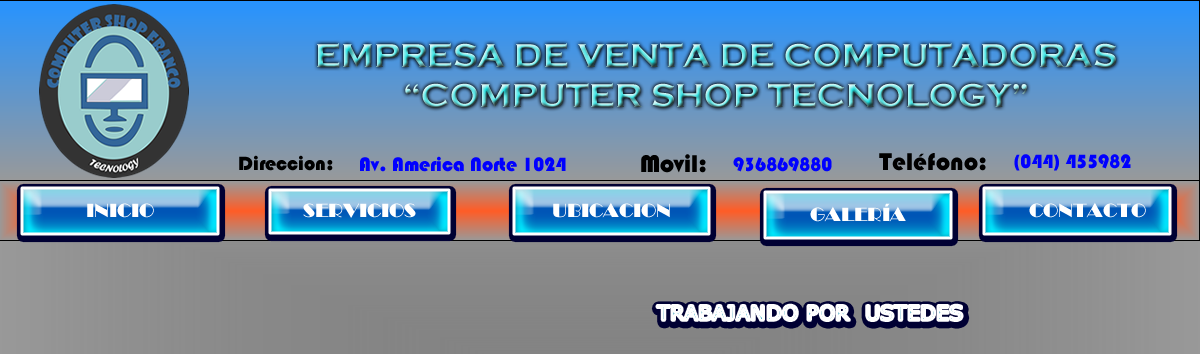
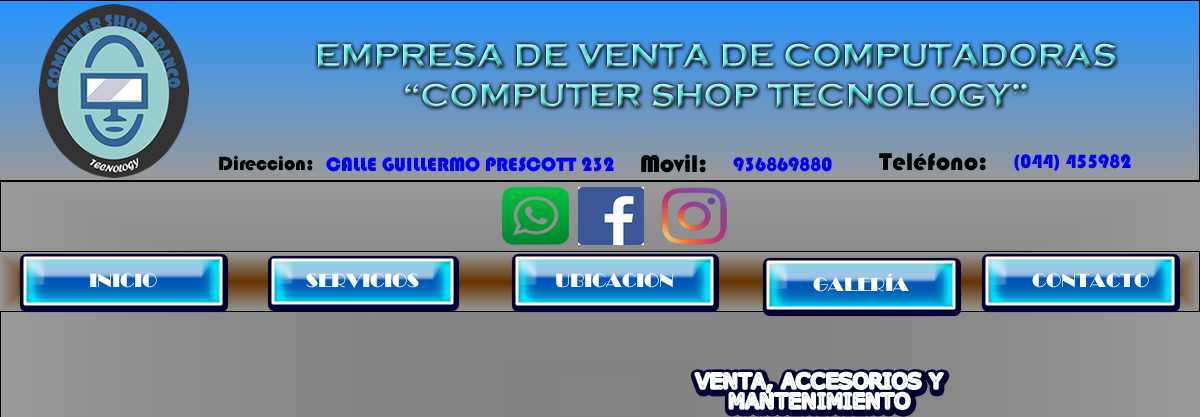
Add files via upload

diff --git a/index.html b/index.html
@@ -6,7 +6,7 @@
 <title>index.png</title>
 <meta http-equiv="Content-Type" content="text/html; charset=utf-8" />
 <style type="text/css">td img {display: block;}</style>
-<!--Fireworks CS6 Dreamweaver CS6 target.  Created Tue Sep 09 08:20:52 GMT-0500 2025-->
+<!--Fireworks CS6 Dreamweaver CS6 target.  Created Tue Sep 09 08:52:23 GMT-0500 2025-->
 <script language="JavaScript1.2" type="text/javascript">
 <!--
 function MM_findObj(n, d) { //v4.01
@@ -41,33 +41,33 @@ function MM_preloadImages() { //v3.0
    <td><img src="spacer.gif" width="192" height="1" alt="" /></td>
    <td><img src="spacer.gif" width="8" height="1" alt="" /></td>
    <td><img src="spacer.gif" width="348" height="1" alt="" /></td>
-   <td><img src="spacer.gif" width="477" height="1" alt="" /></td>
-   <td><img src="spacer.gif" width="123" height="1" alt="" /></td>
+   <td><img src="spacer.gif" width="445" height="1" alt="" /></td>
+   <td><img src="spacer.gif" width="155" height="1" alt="" /></td>
    <td><img src="spacer.gif" width="1" height="1" alt="" /></td>
   </tr>
 
   <tr>
-   <td colspan="6"><img name="index_r1_c1" src="index_r1_c1.png" width="1200" height="354" id="index_r1_c1" alt="" /></td>
-   <td><img src="spacer.gif" width="1" height="354" alt="" /></td>
+   <td colspan="6"><img name="index_r1_c1" src="index_r1_c1.png" width="1200" height="417" id="index_r1_c1" alt="" /></td>
+   <td><img src="spacer.gif" width="1" height="417" alt="" /></td>
   </tr>
   <tr>
-   <td colspan="4"><img name="index_r2_c1" src="index_r2_c1.png" width="600" height="63" id="index_r2_c1" alt="" /></td>
-   <td rowspan="7"><img name="index_r2_c5" src="index_r2_c5.png" width="477" height="315" id="index_r2_c5" alt="" /></td>
-   <td rowspan="8"><img name="index_r2_c6" src="index_r2_c6.png" width="123" height="446" id="index_r2_c6" alt="" /></td>
-   <td><img src="spacer.gif" width="1" height="63" alt="" /></td>
+   <td rowspan="8"><img name="index_r2_c1" src="index_r2_c1.png" width="52" height="383" id="index_r2_c1" alt="" /></td>
+   <td rowspan="2"><a href="javascript:;" onmouseout="MM_swapImgRestore();" onmouseover="MM_swapImage('index_r3_c5','','laptop.jpg',1);"><img name="index_r2_c2" src="index_r2_c2.png" width="192" height="41" id="index_r2_c2" alt="" /></a></td>
+   <td colspan="4"><img name="index_r2_c3" src="index_r2_c3.png" width="956" height="13" id="index_r2_c3" alt="" /></td>
+   <td><img src="spacer.gif" width="1" height="13" alt="" /></td>
   </tr>
   <tr>
-   <td rowspan="7"><img name="index_r3_c1" src="index_r3_c1.png" width="52" height="383" id="index_r3_c1" alt="" /></td>
-   <td><a href="javascript:;" onmouseout="MM_swapImgRestore();" onmouseover="MM_swapImage('index_r2_c5','','laptop.jpg',1);"><img name="index_r3_c2" src="index_r3_c2.png" width="192" height="41" id="index_r3_c2" alt="" /></a></td>
-   <td rowspan="4" colspan="2"><img name="index_r3_c3" src="index_r3_c3.png" width="356" height="101" id="index_r3_c3" alt="" /></td>
-   <td><img src="spacer.gif" width="1" height="41" alt="" /></td>
+   <td rowspan="4" colspan="2"><img name="index_r3_c3" src="index_r3_c3.png" width="356" height="88" id="index_r3_c3" alt="" /></td>
+   <td rowspan="6"><img name="index_r3_c5" src="index_r3_c5.png" width="445" height="239" id="index_r3_c5" alt="" /></td>
+   <td rowspan="7"><img name="index_r3_c6" src="index_r3_c6.png" width="155" height="370" id="index_r3_c6" alt="" /></td>
+   <td><img src="spacer.gif" width="1" height="28" alt="" /></td>
   </tr>
   <tr>
    <td><img name="index_r4_c2" src="index_r4_c2.png" width="192" height="15" id="index_r4_c2" alt="" /></td>
    <td><img src="spacer.gif" width="1" height="15" alt="" /></td>
   </tr>
   <tr>
-   <td><a href="javascript:;" onmouseout="MM_swapImgRestore();" onmouseover="MM_swapImage('index_r2_c5','','cpu.jpg',1);"><img name="index_r5_c2" src="index_r5_c2.png" width="192" height="39" id="index_r5_c2" alt="" /></a></td>
+   <td><a href="javascript:;" onmouseout="MM_swapImgRestore();" onmouseover="MM_swapImage('index_r3_c5','','cpu.jpg',1);"><img name="index_r5_c2" src="index_r5_c2.png" width="192" height="39" id="index_r5_c2" alt="" /></a></td>
    <td><img src="spacer.gif" width="1" height="39" alt="" /></td>
   </tr>
   <tr>
@@ -75,7 +75,7 @@ function MM_preloadImages() { //v3.0
    <td><img src="spacer.gif" width="1" height="6" alt="" /></td>
   </tr>
   <tr>
-   <td colspan="2"><a href="javascript:;" onmouseout="MM_swapImgRestore();" onmouseover="MM_swapImage('index_r2_c5','','mouseyteclado.jpg',1);"><img name="index_r7_c2" src="index_r7_c2.png" width="200" height="62" id="index_r7_c2" alt="" /></a></td>
+   <td colspan="2"><a href="javascript:;" onmouseout="MM_swapImgRestore();" onmouseover="MM_swapImage('index_r3_c5','','mouseyteclado.jpg',1);"><img name="index_r7_c2" src="index_r7_c2.png" width="200" height="62" id="index_r7_c2" alt="" /></a></td>
    <td rowspan="3"><img name="index_r7_c4" src="index_r7_c4.png" width="348" height="282" id="index_r7_c4" alt="" /></td>
    <td><img src="spacer.gif" width="1" height="62" alt="" /></td>
   </tr>
@@ -84,7 +84,7 @@ function MM_preloadImages() { //v3.0
    <td><img src="spacer.gif" width="1" height="89" alt="" /></td>
   </tr>
   <tr>
-   <td><img name="index_r9_c5" src="index_r9_c5.png" width="477" height="131" id="index_r9_c5" alt="" /></td>
+   <td><img name="index_r9_c5" src="index_r9_c5.png" width="445" height="131" id="index_r9_c5" alt="" /></td>
    <td><img src="spacer.gif" width="1" height="131" alt="" /></td>
   </tr>
 </table>
